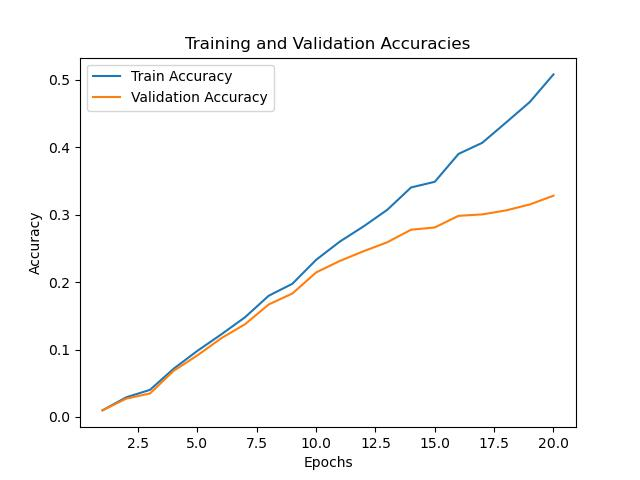
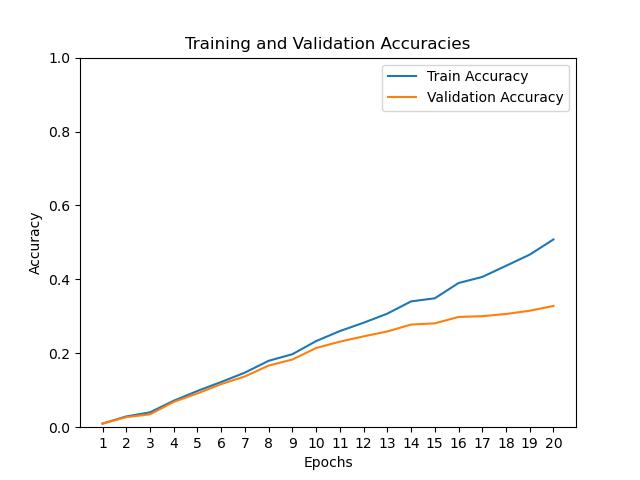
change plot settings

diff --git a/plot_accs.py b/plot_accs.py
@@ -19,7 +19,11 @@ def plot_accuracies(json_file):
     plt.xlabel('Epochs')
     plt.ylabel('Accuracy')
     plt.legend()
-
+    # Set y-axis limit to 1
+    plt.ylim(0, 1)
+    # Force x-axis ticks to be integers
+    plt.xticks(list(epochs))
+    
     # Save the plot to a JPG file with the same name as the JSON file
     jpg_file = json_file.replace('.json', '.jpg')
     plt.savefig(jpg_file)
